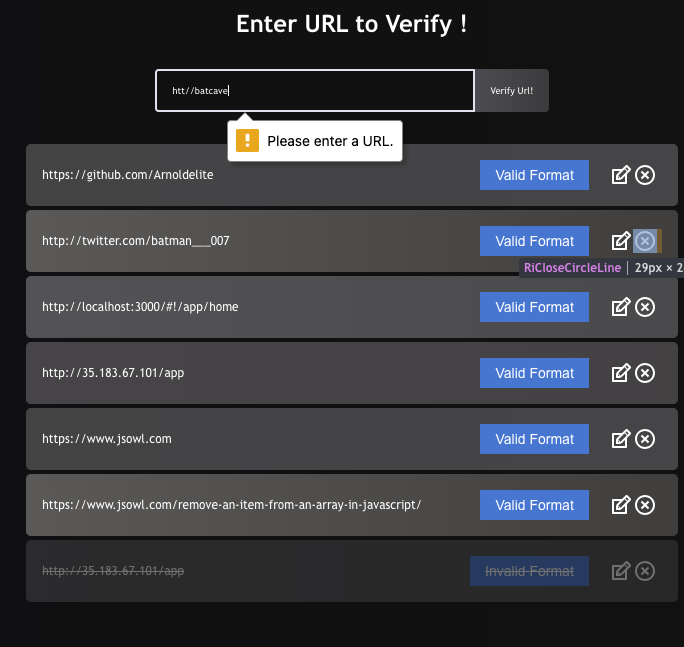
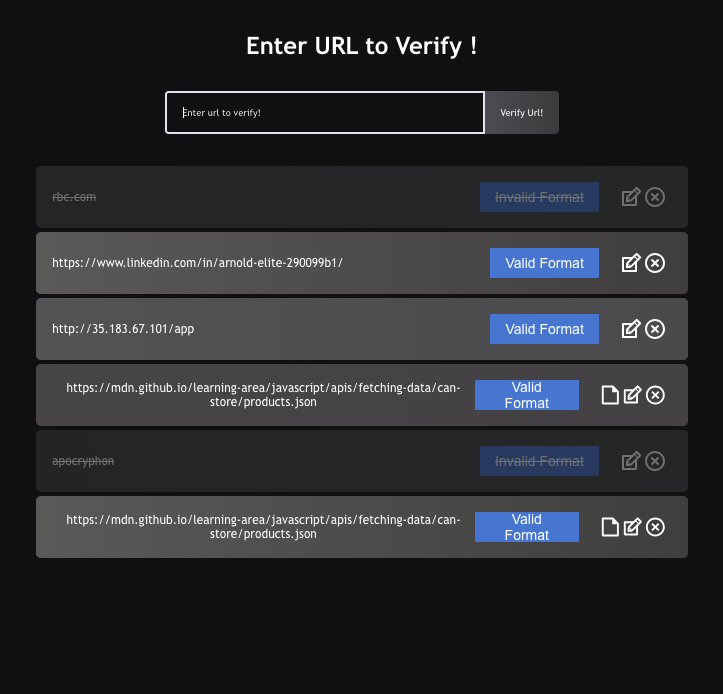
- update readme  - clean code

diff --git a/src/components/NoteForm.js b/src/components/NoteForm.js
@@ -3,6 +3,8 @@ import React, { useState, useEffect, useRef } from 'react';
 function NoteForm(props) {
 	const [input, setInput] = useState('');
 	const [isValid, setIsValid] = useState(false);
+	const [isFile, setIsFile] = useState(false);
+	const [error, setError] = useState(false);
 	const inputRef = useRef(null);
 
 	useEffect(() => {
@@ -11,44 +13,92 @@ function NoteForm(props) {
 
 	const handleChange = (e) => {
 		setInput(e.target.value);
+		var inputElement = document.getElementsByName('url');
+		let check = inputElement[0].checkValidity();
+		setIsValid(check);
+		setError(false);
 	};
 
+	//mock server call with async function that returns a promise
+	function isValidHttpUrl(urlToBeTested) {
+		console.log('passed in string >>', urlToBeTested);
+		return new Promise((resolve, reject) => {
 
-	  function isValidHttpUrl(string) {
 		try {
-			const url = new URL(string);
-			  var inputElement = document.getElementsByName('url');
-			  let check = inputElement[0].checkValidity();
-			// return url.protocol === "http:" || url.protocol === "https:";
-		  return Boolean(url) || check; 
+			if (typeof urlToBeTested !== 'string') {
+				return reject(new TypeError('Expected a string'));
+			}
+		
+			urlToBeTested = urlToBeTested.trim();
+			if (urlToBeTested.includes(' ')) {
+				return reject(false);
+			}
+
+			const url = new URL(urlToBeTested);
+		
+			return resolve(url.protocol === "http:" || url.protocol === "https:");
+	
 
 		} catch (err) {
-			console.log("Invalid url error!", err);
-		  return false;
+			if (err.message) {
+				console.log("Invalid url error!", {error: err});
+				setError(true);
+				setIsValid(false);
+				setIsFile(false);
+			}
+		   throw err;
 		}
-
+		});
 	  }
+
 
 	const handleSubmit = (e) => {
 		e.preventDefault();
 		// e.persist();
 
-		const check = isValidHttpUrl(input);
-		setIsValid(check);
+		isValidHttpUrl(input)
+		.then((result) => {		
+			setIsValid(result);
+			const parts = input.split('/');
+			console.log('check file type >>', input);
+  			const lastPart = parts[parts.length - 1];
 
-		props.onSubmit({
-			id: Math.floor(Math.random() * 10000),
-			text: input,
-			isValid: isValid,
+			// Check if the last part has a file extension (e.g., ends with .txt, .pdf, .xlsx or .json) this could also be checked using regex
+			const checkFile = lastPart.includes('.txt') || lastPart.includes('.pdf')  || lastPart.includes('.xlsx') || lastPart.includes('.json');
+			setIsFile(checkFile);
+			props.onSubmit({
+				id: Math.floor(Math.random() * 10000),
+				text: input,
+				isValid: isValid,
+				isFile: checkFile,
+			});
+		})
+		.catch((error) => {
+			if (error) {
+				
+				setIsValid(false);
+				setIsFile(false);
+				props.onSubmit({
+					id: Math.floor(Math.random() * 10000),
+					text: input,
+					isValid: false,
+					isFile: false,
+				});
+			
+			console.log(`Couldn't check url format: ${error}`)
+			}
+			
 		});
 
 		setInput('');
+		setIsFile(false);
+		setIsValid(false);
 	};
 
 	return (
 		<form className="note-form" onSubmit={handleSubmit}>
-			<input type="url" placeholder={ props.edit ? 'edit existing url!' : 'Enter url to verify!'} value={input} data-testid="add-note" name='url' className='note-input' onChange={handleChange} ref={inputRef}/>
-			<button className="note-button"> { props.edit ? 'edit url entry!' : 'Verify url!'} </button>
+			<input type="text" placeholder={ props.edit ? 'edit existing url!' : 'Enter url to verify!'} value={input} data-testid="add-note" name='url' className='note-input' onChange={handleChange} ref={inputRef}/>
+			<button disabled={input === ''} className="note-button"> { props.edit ? 'edit url entry!' : 'Verify url!'} </button>
 		</form>
 	);
 

diff --git a/src/components/Note.js b/src/components/Note.js
@@ -2,6 +2,7 @@ import React, {  useState } from 'react';
 import NoteForm from './NoteForm';
 import Tag from './Tag';
 import { RiCloseCircleLine } from 'react-icons/ri';
+import { RiFile3Line } from 'react-icons/ri';
 import { TiEdit } from 'react-icons/ti';
 
 
@@ -32,6 +33,7 @@ const Note = ({ notes, completeNote, removeNote, updateNote}) => {
 	   <div key={note.id} data-testid="note-content" onClick={() => completeNote(note.id)}>{note.text}</div>
 	   <div className="icons">
 	   		{note.isValid ? <Tag name={"Valid Format"}/> : <Tag name={"Invalid Format"}/>}
+		   {note.isFile && <RiFile3Line data-testid="edit-icon"  className="edit-icon" />}
 		   <TiEdit data-testid="edit-icon" onClick={() => setEdit({ id: note.id, value: note.text})} className="edit-icon" />
 		   <RiCloseCircleLine data-testid="delete-icon" onClick={() => removeNote(note.id)} className="delete-icon" />
 	   </div>

diff --git a/src/components/NoteList.js b/src/components/NoteList.js
@@ -6,6 +6,7 @@ function NoteList () {
 	const [notes, setNotes] = useState([]);
 
 	const addNote = (note) => {
+		console.log('received url data >>', note);
 
 		if (!note.text || note.text === ' ' || /^\$*$/.test(note.text)){
 			return;

diff --git a/README.md b/README.md
@@ -85,7 +85,7 @@ The check for the URL format and the existence check shall be triggered as the u
      A URL ( Uniform Resource Locator) is the address of a given resource on the web. Typially, a URL consists of three parts. protocol, domain and path. For example: https://github.com/Arnoldelite using this URL as an example, the protocol is https, domain is github.com and the path is Arnoldelite.
 
 
-	My solution makes use of the semantic html input tag with type url to check the initial format of the URL as the user types. on submit, and after the intial format check, the string is sent to a handler that serves as the mocked server call. This function makes use of the new URL() default javascript constructor to check for the existence. it returns a boolean with the details of the URl i.e. host, domain and path and other usefull details or throw an error is the format is incorrect but because of our initial check with the semantic input html tag we would not get to that path.
+	My solution makes use of the semantic html input tag with type url to check the initial format of the URL as the user types. on submit, and after the intial format check, the string is sent to a handler that serves as the mocked server call. This function makes use of the new URL() default javascript constructor to check for the existence. it returns a boolean with the details of the URl i.e. host, domain and path and other usefull details or throw an error if the format is incorrect but because of our initial check with the semantic input html tag we would not get to that path.
 
 	extra features to ease usability:
 	- user can edit previous URLs in the form of notes.
